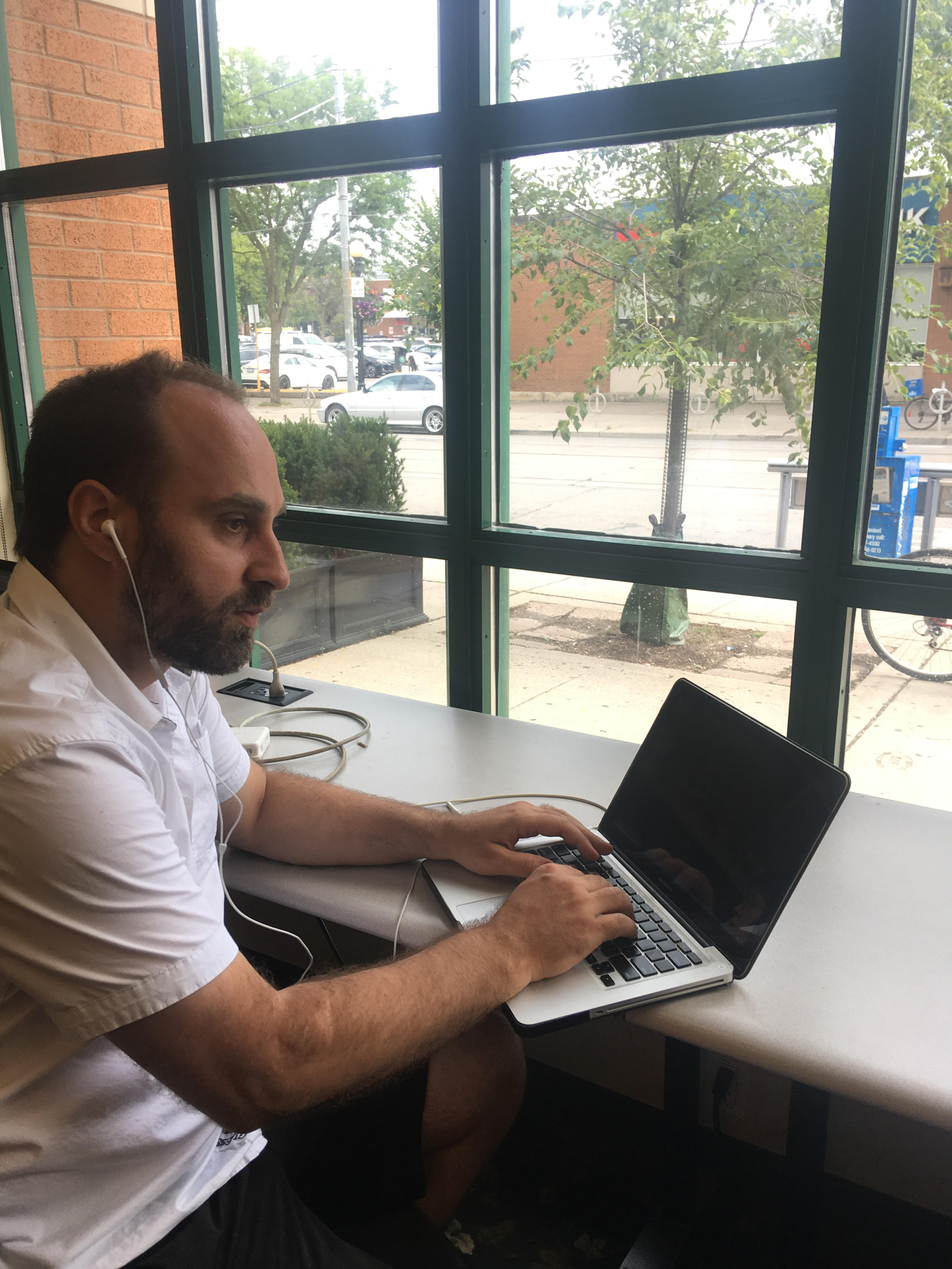
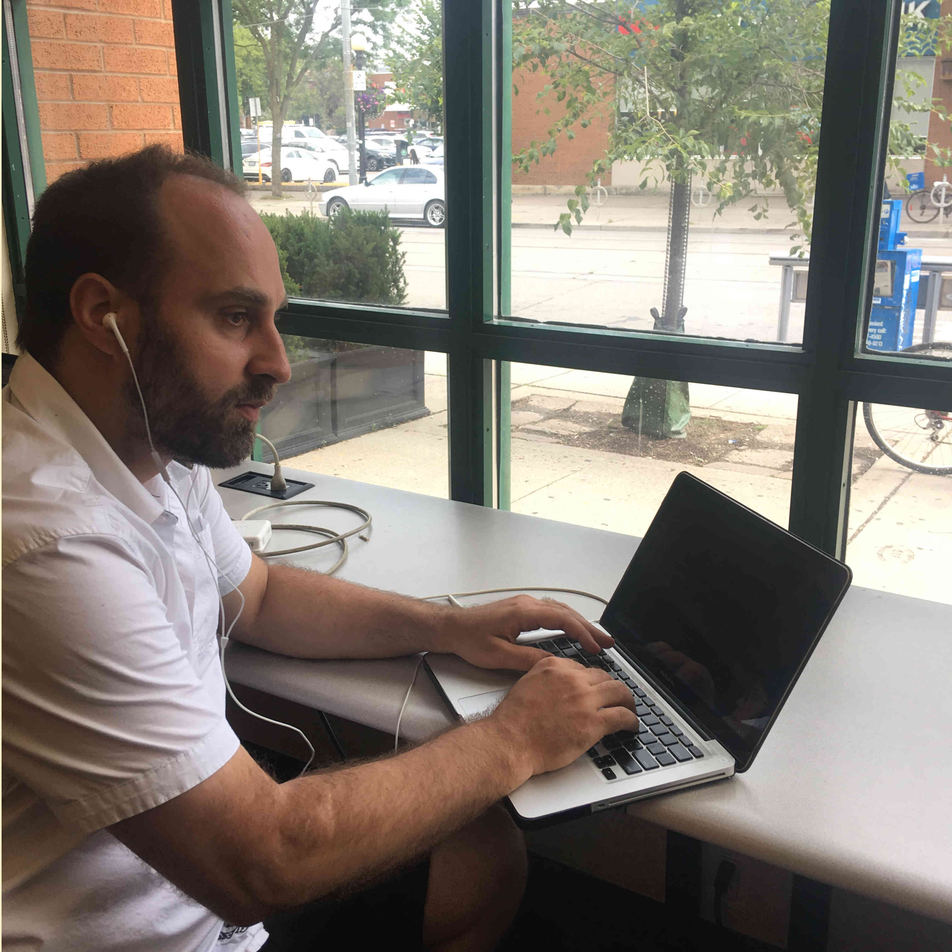
change image

diff --git a/index.html b/index.html
@@ -9,5 +9,5 @@ title: Petar Ivcec, Full Stack JavaScript Developer
 </div>
 
 <div id="portrait-container">
-  <img src="/assets/images/me.png" alt="" id="portrait" />
+  <img src="/assets/images/me.jpg" alt="" id="portrait" />
 </div>
